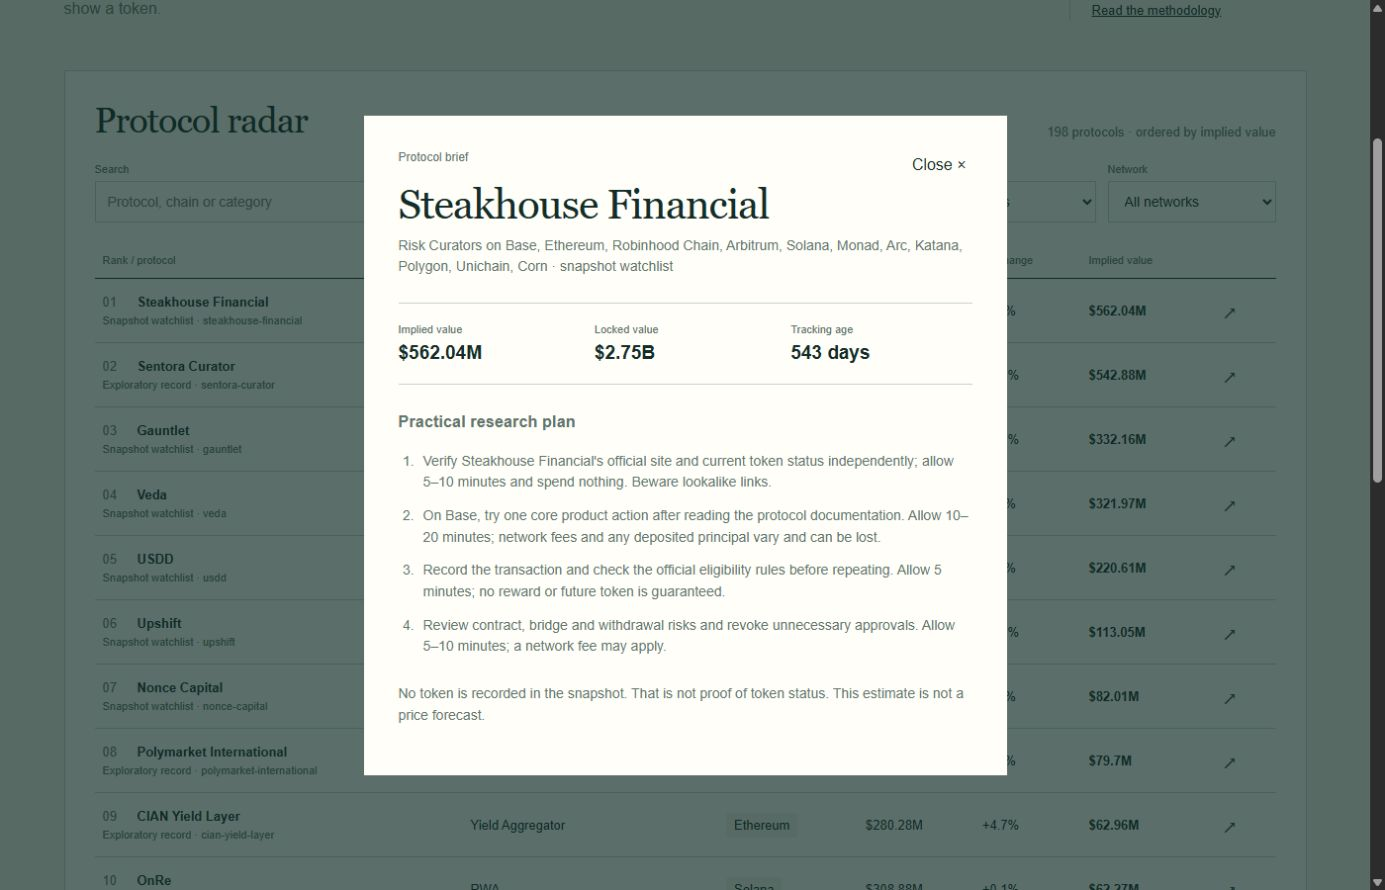
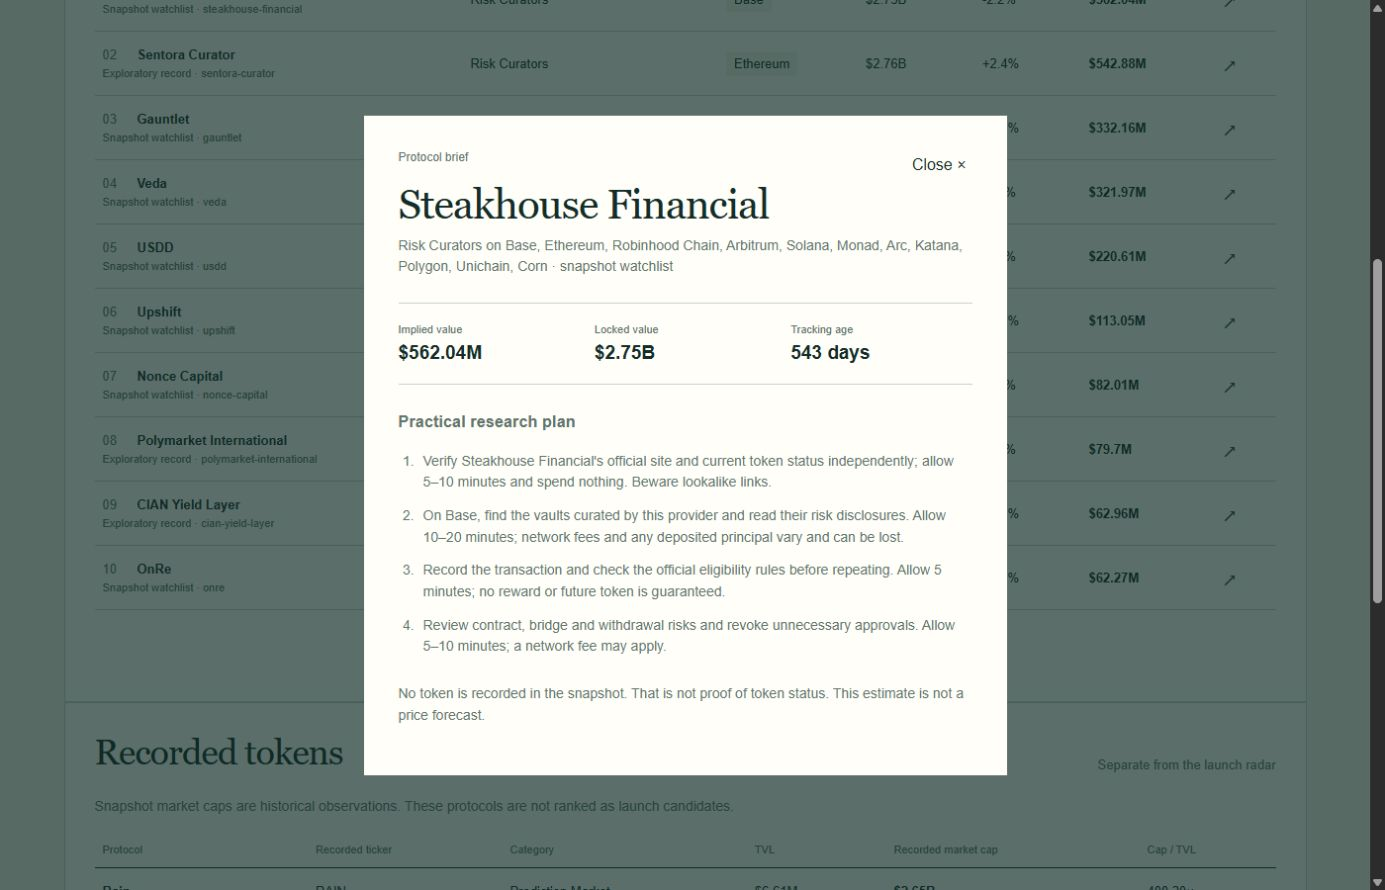
Tailor research actions to protocol categories

diff --git a/main.ts b/main.ts
@@ -11,6 +11,28 @@ const snapshot=JSON.parse(readFileSync(input,'utf8'));
 const watch=new Set(snapshot.watchlist);
 const day=86400000;
 const asof=Date.parse(snapshot.as_of+'T00:00:00Z');
+// Match actions to the public category without implying any protocol has a reward program.
+function researchAction(category:string):string {
+ if (category.includes('lend')) {
+  return 'compare supported lending markets and their withdrawal conditions before supplying a small amount';
+ }
+ if (category.includes('dex')) {
+  return 'compare a small swap quote, slippage and network costs before making a transaction';
+ }
+ if (category.includes('yield')) {
+  return 'inspect a vault, its strategy and withdrawal rules before considering a small deposit';
+ }
+ if (category.includes('prediction')) {
+  return 'read the market rules and examine the interface without placing a trade';
+ }
+ if (category.includes('curator')) {
+  return 'find the vaults curated by this provider and read their risk disclosures';
+ }
+ if (category.includes('cdp')) {
+  return 'read collateral and liquidation rules and inspect the borrowing interface';
+ }
+ return 'read the product documentation and inspect the core interface before taking any action';
+}
 // Apply the published exclusion rule to exploratory rows too; the snapshot has no parent field.
 const excludedCategories=new Set(['Bridge','Canonical Bridge','Liquid Staking','Liquid Restaking','Restaked BTC','CEX']);
 const isExploratory=(p:any)=>!p.symbol&&!p.gecko_id&&p.mcap_usd==null&&!excludedCategories.has(p.category||'')&&!/\b(wrapped|staked|staking)\b/i.test(p.name)&&!/\s(?:v\d+(?:\.\d+)?|\d+\.\d+)$/i.test(p.name)&&!/^(Binance|Coinbase|Bybit|Kraken|Bitget|OKX|Bitfinex|Gemini)\b/i.test(p.name);
@@ -18,7 +40,7 @@ const candidates=snapshot.protocols.filter((p:any)=>watch.has(p.slug)||isExplora
 const plans=(p:any)=>{
  const category=(p.category||'protocol').toLowerCase();
  const chain=(p.chains||[])[0]||'a supported network';
- const action=category.includes('lend')?'supply a small amount to a supported lending market':category.includes('dex')?'perform a small swap and compare the quoted route and slippage':category.includes('yield')?'inspect a vault and deposit only an amount you can afford to lose':'try one core product action after reading the protocol documentation';
+ const action=researchAction(category);
  return [
   `Verify ${p.name}'s official site and current token status independently; allow 5–10 minutes and spend nothing. Beware lookalike links.`,
   `On ${chain}, ${action}. Allow 10–20 minutes; network fees and any deposited principal vary and can be lost.`,
